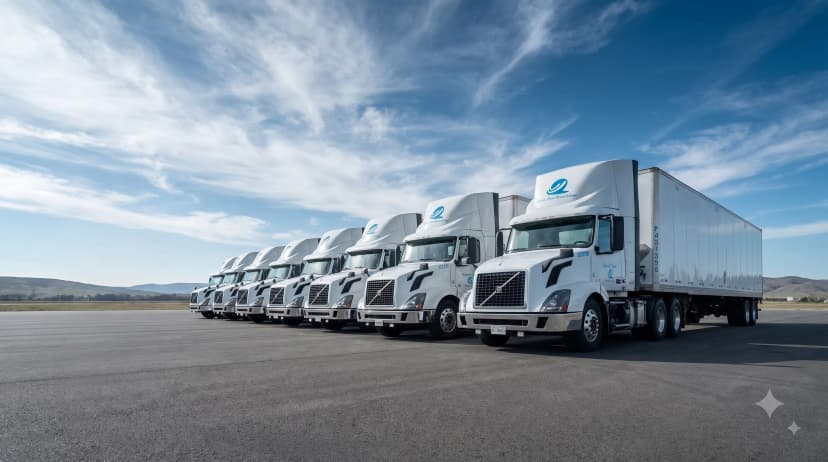
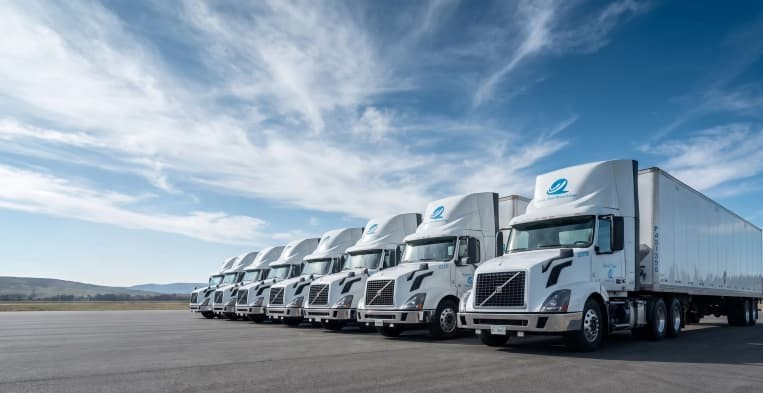
@ SEO cleanup, region wording, image swaps, and UI fixes
- Fix doubled title-tag brand suffix on /services, /service-areas, /contact
  (metadata was declared in both layout.js and page.js)
- Standardize region wording to "Ontario" site-wide
- Update flatbed/step-deck sizes to 36/40/48/53ft across service pages
- Swap flatbed-moffett-transport imagery to Moffett set; new services & healthcare heroes
- Full-bleed hover on single-column service cards (home + editorial pages)
- Append "Moffett & Flatbed Services Available" to footer serving line; add Blog footer link

@

diff --git a/src/components/serviceEditorialData.js b/src/components/serviceEditorialData.js
@@ -144,6 +144,7 @@ const ALT = {
   'specialty-kenworth': 'A Point Zero Road Lines specialty flatbed tractor',
   // New page-wise photography
   'fleet-lineup': 'Point Zero Road Lines fleet lined up under a clear blue sky',
+  'services-hero': 'Point Zero Road Lines fleet lined up under a clear blue sky',
   'about-fleet-lineup': 'Point Zero Road Lines fleet lined up under a clear blue sky',
   'about-fleet-yard': 'Point Zero Road Lines fleet parked at the terminal yard',
   'home-fleet-manager': 'Point Zero Road Lines fleet manager inspecting transport trucks',
@@ -152,6 +153,8 @@ const ALT = {
   'moffett-yard-front': 'Point Zero Road Lines Moffett flatbed truck ready for delivery',
   'moffett-unloading-forklift': 'Truck-mounted forklift unloading palletized freight on site',
   'moffett-construction-unload': 'Point Zero Road Lines Moffett delivery at construction site',
+  'moffett-logistics-yard': 'Point Zero Road Lines Moffett-equipped truck in the logistics yard',
+  'truck-side': 'Point Zero Road Lines truck side profile on the road',
   'dedicated-fleet-rows': 'Point Zero Road Lines dedicated fleet lined up in parallel rows',
   'dedicated-fleet-terminal': 'Point Zero Road Lines dedicated carrier fleet at terminal',
   'dedicated-fleet-highway': 'Point Zero Road Lines truck traveling on open highway',
@@ -197,12 +200,15 @@ const POS = {
   'urban-flatbed': '40% 56%',
   // New page-wise focal points
   'fleet-lineup': '50% 55%',
+  'services-hero': '50% 55%',
   'about-fleet-lineup': '50% 55%',
   'about-fleet-yard': '50% 50%',
   'home-fleet-manager': '50% 52%',
   'home-driver-cabin': '50% 40%',
   'moffett-yard-rear': '50% 55%',
   'moffett-yard-front': '50% 52%',
+  'moffett-logistics-yard': '50% 55%',
+  'truck-side': '50% 50%',
   'moffett-unloading-forklift': '50% 50%',
   'moffett-construction-unload': '50% 50%',
   'dedicated-fleet-rows': '50% 54%',
@@ -242,14 +248,14 @@ export const IMAGE_SETS = {
     cta: img('about-fleet-yard'),
   },
   services: {
-    hero: img('fleet-lineup'),
+    hero: img('services-hero'),
     gallery: [img('truck-loaded', 'main'), img('warehouse-crossdock-fleet2'), img('home-driver-cabin')],
     cta: img('about-fleet-yard'),
   },
   'flatbed-moffett-transport': {
-    hero: img('warehouse-crossdock-fleet2'),
-    gallery: [img('construction-delivery-site', 'main'), img('warehouse-crossdock-docks'), img('home-driver-cabin')],
-    cta: img('flatbed-construction-haul'),
+    hero: img('moffett-logistics-yard'),
+    gallery: [img('construction-site-unload', 'main'), img('flatbed-road'), img('truck-side')],
+    cta: img('moffett-logistics-yard'),
   },
   'moffett-delivery': {
     hero: img('moffett-construction-unload'),
@@ -302,7 +308,7 @@ export const IMAGE_SETS = {
     cta: img('construction-blue-hero'),
   },
   'healthcare-linen-logistics': {
-    hero: img('dedicated-fleet-blue'),
+    hero: img('moffett-yard-rear'),
     gallery: [img('dedicated-fleet-terminal', 'main'), img('warehouse-crossdock-staging'), img('home-fleet-manager')],
     cta: img('dedicated-fleet-rows'),
   },
@@ -374,7 +380,7 @@ export function getImageSet(key) {
 
 export const overviewCapabilities = [
   { icon: 'Forklift', label: 'Moffett', value: 'Truck-mounted forklifts that travel with the load and unload without site equipment.' },
-  { icon: 'Truck', label: 'Flatbed', value: '48ft, 53ft, step-decks and drop-decks. Ready for oversized and overweight loads.' },
+  { icon: 'Truck', label: 'Flatbed', value: '36ft, 40ft, 48ft, 53ft, step-decks and drop-decks. Ready for oversized and overweight loads.' },
   { icon: 'Warehouse', label: 'Cross-dock', value: 'Inbound to outbound transfers that keep freight moving instead of sitting.' },
   { icon: 'Navigation', label: 'Tracking', value: 'Live truck location, so you know where the load is without calling to ask.' },
 ];

diff --git a/src/app/services/flatbed-transportation/page.js b/src/app/services/flatbed-transportation/page.js
@@ -2,11 +2,11 @@ import ServiceEditorialPage from '../../../components/ServiceEditorialPage';
 
 export const metadata = {
   title: 'Flatbed Transportation Services in Ontario | Point Zero Road Lines',
-  description: '48ft & 53ft flatbed and step-deck transportation across Ontario. Tarping, Moffett offloading, and dedicated open-deck freight capacity.',
+  description: '36ft, 40ft, 48ft & 53ft flatbed and step-deck transportation across Ontario. Tarping, Moffett offloading, and dedicated open-deck freight capacity.',
 };
 
 const capabilities = [
-  { icon: 'Truck', title: 'Open-Deck & Step-Deck Fleet', desc: '48ft and 53ft flatbeds, step-decks, and roll-tite trailers for oversized, high-cube, and heavy industrial freight.' },
+  { icon: 'Truck', title: 'Open-Deck & Step-Deck Fleet', desc: '36ft, 40ft, 48ft and 53ft flatbeds, step-decks, and roll-tite trailers for oversized, high-cube, and heavy industrial freight.' },
   { icon: 'Forklift', title: 'Moffett-Equipped Capability', desc: 'Flatbeds carrying truck-mounted forklifts so your freight unloads immediately upon job-site arrival.' },
   { icon: 'Shield', title: 'Certified Load Securement', desc: 'All shipments secured with heavy-duty chains, ratchet straps, corner protectors, and 8ft drop tarps.' },
   { icon: 'MapPin', title: 'Site-Ready Deliveries', desc: 'Direct delivery into active construction zones, industrial yards, and restricted access facilities.' },
@@ -32,7 +32,7 @@ export default function FlatbedTransportationPage() {
       heroAlt="Point Zero Road Lines flatbed trailer on highway"
       stats={[
         { value: '2006', label: 'Operating Since' },
-        { value: '48-53ft', label: 'Deck Lengths' },
+        { value: '36-53ft', label: 'Deck Lengths' },
         { value: '24/7', label: 'Live Dispatch' },
         { value: 'All-Terrain', label: 'Moffett Offload' },
       ]}

diff --git a/src/app/fleet-and-equipment/page.js b/src/app/fleet-and-equipment/page.js
@@ -7,7 +7,7 @@ export const metadata = {
 
 const fleetSpecs = [
   { icon: 'Forklift', title: 'Truck-Mounted Moffett Forklifts', desc: 'All-wheel drive rough-terrain capability. Mounts to trailer rear in under 2 minutes to unload heavy materials independently.' },
-  { icon: 'Truck', title: '48ft & 53ft Flatbeds and Step-Decks', desc: 'Open-deck capacity with step-deck options for tall machinery, construction framing, structural steel, and oversized loads.' },
+  { icon: 'Truck', title: '36ft, 40ft, 48ft & 53ft Flatbeds and Step-Decks', desc: 'Open-deck capacity with step-deck options for tall machinery, construction framing, structural steel, and oversized loads.' },
   { icon: 'Layers', title: 'Roll-Tite & Curtain-Side Trailers', desc: 'Retractable tarp systems offering quick side-loading with 100% weather-tight protection for sensitive cargo.' },
   { icon: 'Package', title: '53ft Air-Ride Dry Vans', desc: 'Clean, high-cube enclosed trailers equipped with e-track systems for secure CPG, industrial freight, and linen carts.' },
 ];
@@ -35,7 +35,7 @@ export default function FleetAndEquipmentPage() {
       stats={[
         { value: '100%', label: 'Company-Owned Fleet' },
         { value: 'Moffett', label: 'All-Terrain Forklifts' },
-        { value: '48-53ft', label: 'Flatbed & Step-Deck' },
+        { value: '36-53ft', label: 'Flatbed & Step-Deck' },
         { value: '24/7', label: 'Fleet Dispatch' },
       ]}
       primarySection={{

diff --git a/src/app/services/flatbed-moffett-transport/page.js b/src/app/services/flatbed-moffett-transport/page.js
@@ -29,14 +29,14 @@ export default function FlatbedMoffettTransportPage() {
       badgeAlt="EST. 2006 · MISSISSAUGA HQ"
       titleLine1="TRUCK-MOUNTED MOFFETT DELIVERY."
       titleAccent="NO DOCK. NO FORKLIFT. NO PROBLEM."
-      description="Point Zero Road Lines pairs 48ft and 53ft flatbeds, step decks, and roll-tite trailers with truck-mounted Moffett forklifts that ride on the rear and unload directly at the job site, yard, or residential address. No waiting for on-site equipment, no offloading delays."
+      description="Point Zero Road Lines pairs 36ft, 40ft, 48ft and 53ft flatbeds, step decks, and roll-tite trailers with truck-mounted Moffett forklifts that ride on the rear and unload directly at the job site, yard, or residential address. No waiting for on-site equipment, no offloading delays."
       heroImage="/images/warehouse-crossdock-fleet2.webp"
       heroAlt="Point Zero Road Lines Moffett flatbed truck ready for delivery"
       stats={[
         { value: '100%', label: 'Self-Unloading Fleet' },
         { value: '2006', label: 'Operating Since' },
         { value: '24/7', label: 'Live Dispatch' },
-        { value: '48-53ft', label: 'Flatbed & Step-Deck' },
+        { value: '36-53ft', label: 'Flatbed & Step-Deck' },
       ]}
       primarySection={{
         num: '01',

diff --git a/src/app/service-areas/layout.js b/src/app/service-areas/layout.js
@@ -1,12 +1,12 @@
 export const metadata = {
   // SEO title tag from the client's approved copy package. `absolute` bypasses
   // the root "%s | Point Zero Road Lines" template so it renders verbatim.
-  title: { absolute: "Trucking Service Areas: GTA & Ontario | Point Zero Road Lines" },
-  description: "Point Zero Road Lines serves Mississauga, Brampton, Bolton, Toronto and the wider GTA and Ontario, with cross-border trucking into the U.S.",
+  title: { absolute: "Freight & Trucking Service Areas | GTA & Ontario" },
+  description: "Point Zero Road Lines serves Mississauga, Brampton, Toronto, Vaughan, Caledon, Burlington & across Ontario, with cross-border trucking to the U.S.",
   alternates: { canonical: "/service-areas" },
   openGraph: {
-    title: "Service Areas",
-    description: "Point Zero Road Lines serves Mississauga, Brampton, Bolton, Toronto and the wider GTA and Ontario, with cross-border trucking into the U.S.",
+    title: "Freight & Trucking Service Areas | GTA & Ontario",
+    description: "Point Zero Road Lines serves Mississauga, Brampton, Toronto, Vaughan, Caledon, Burlington & across Ontario, with cross-border trucking to the U.S.",
     url: "/service-areas",
   },
 };

diff --git a/src/app/contact/layout.js b/src/app/contact/layout.js
@@ -1,10 +1,10 @@
 export const metadata = {
-  title: { absolute: "Contact Point Zero Road Lines — 24/7 Dispatch & Freight Quotes" },
-  description: "Contact Point Zero Road Lines in Mississauga, ON. Call (905) 291-0325 or message our 24/7 dispatch team for dedicated fleet, flatbed & Moffett delivery, and warehousing inquiries.",
+  title: { absolute: "Get a Freight Quote — GTA & Ontario | Point Zero" },
+  description: "Request a free freight quote from Point Zero Road Lines. Dedicated fleet, flatbed & Moffett delivery, and more. Quotes typically returned within 24 hours.",
   alternates: { canonical: "/contact" },
   openGraph: {
-    title: "Contact Point Zero Road Lines — 24/7 Dispatch & Freight Quotes",
-    description: "Contact Point Zero Road Lines in Mississauga, ON. Call (905) 291-0325 or message our 24/7 dispatch team for dedicated fleet, flatbed & Moffett delivery, and warehousing inquiries.",
+    title: "Get a Freight Quote — GTA & Ontario | Point Zero",
+    description: "Request a free freight quote from Point Zero Road Lines. Dedicated fleet, flatbed & Moffett delivery, and more. Quotes typically returned within 24 hours.",
     url: "/contact",
   },
 };

diff --git a/src/app/services/page.js b/src/app/services/page.js
@@ -6,11 +6,8 @@ import {
   overviewGallery,
 } from '../../components/serviceEditorialData';
 
-export const metadata = {
-  title: 'Trucking, Moffett Delivery & Logistics | Point Zero Road Lines',
-  description: 'Dedicated fleet, flatbed & Moffett transport, warehousing, expedited freight, and last mile delivery across the GTA & Ontario.',
-};
-
+// Metadata lives in ./layout.js (absolute title + canonical + OpenGraph) to
+// avoid a doubled "| Point Zero Road Lines" from the root title template.
 export default function ServicesPage() {
   return (
     <ServiceEditorialPage
@@ -36,7 +33,7 @@ export default function ServicesPage() {
         num: '02',
         label: 'Capabilities',
         title: 'Fleet & Equipment at a glance',
-        desc: 'Modern tractors, 48ft/53ft flatbeds, roll-tite trailers, dry vans, and truck-mounted Moffett units maintained to the highest safety standards.',
+        desc: 'Modern tractors, 36ft, 40ft, 48ft and 53ft flatbeds, roll-tite trailers, dry vans, and truck-mounted Moffett units maintained to the highest safety standards.',
         items: overviewCapabilities.map((c) => ({
           icon: c.icon,
           title: c.label,

diff --git a/src/components/Footer.jsx b/src/components/Footer.jsx
@@ -73,6 +73,7 @@ export default function Footer() {
                 <li><Link href="/service-areas">Service Areas</Link></li>
                 <li><Link href="/safety-compliance">Safety &amp; Compliance</Link></li>
                 <li><Link href="/faq">FAQ</Link></li>
+                <li><Link href="/blog">Blog</Link></li>
                 <li><Link href="/contact">Contact</Link></li>
               </ul>
             </div>
@@ -88,7 +89,7 @@ export default function Footer() {
                 24/7 Dispatch • Weekend Pick-up &amp; Delivery
               </span>
               <span style={{ fontSize: '0.75rem', opacity: 0.65, marginTop: '0.5rem', lineHeight: '1.4' }}>
-                Serving Mississauga, Brampton, Toronto, Vaughan, Caledon, Bolton, Burlington, Richmond Hill, Markham &amp; Ontario
+                Serving Mississauga, Brampton, Toronto, Vaughan, Caledon, Bolton, Burlington, Richmond Hill, Markham &amp; Ontario | Moffett &amp; Flatbed Services Available
               </span>
             </div>
           </div>

diff --git a/src/components/ServiceEditorial.css b/src/components/ServiceEditorial.css
@@ -522,8 +522,24 @@
   .sv-ed-grid-4,
   .sv-ed-caps-grid,
   .sv-ed-steps { grid-template-columns: 1fr; }
+  .sv-ed-grid,
+  .sv-ed-grid-4 { border-left: none; border-top: none; }
+  .sv-ed-grid > *:first-child .sv-ed-card,
+  .sv-ed-grid > *:first-child .sv-ed-card-static,
+  .sv-ed-grid-4 > *:first-child .sv-ed-card,
+  .sv-ed-grid-4 > *:first-child .sv-ed-card-static {
+    border-top: 1px solid rgba(13, 27, 42, 0.12);
+  }
   .sv-ed-grid > * .sv-ed-card,
-  .sv-ed-grid > * .sv-ed-card-static { border-right: none !important; }
+  .sv-ed-grid > * .sv-ed-card-static {
+    border-right: none !important;
+    border-left: none;
+    /* Full-bleed hover: background spans edge-to-edge, text stays aligned */
+    margin-left: calc(-1 * var(--page-gutter));
+    margin-right: calc(-1 * var(--page-gutter));
+    padding-left: calc(2rem + var(--page-gutter));
+    padding-right: calc(2rem + var(--page-gutter));
+  }
   .sv-ed-card-link { opacity: 1; transform: none; }
   .sv-ed-step,
   .sv-ed-step:nth-child(odd) {

diff --git a/src/app/service-areas/page.js b/src/app/service-areas/page.js
@@ -1,10 +1,7 @@
 import ServiceEditorialPage from '../../components/ServiceEditorialPage';
 
-export const metadata = {
-  title: 'Freight & Trucking Service Areas | GTA & Ontario',
-  description: 'Point Zero Road Lines serves Mississauga, Brampton, Toronto, Vaughan, Caledon, Burlington & across Ontario, with cross-border trucking to the U.S.',
-};
-
+// Metadata lives in ./layout.js (absolute title + canonical + OpenGraph) to
+// avoid a doubled "| Point Zero Road Lines" from the root title template.
 const serviceRegions = [
   { icon: 'MapPin', title: 'Greater Toronto Area (GTA)', desc: 'Mississauga (HQ), Brampton, Bolton, Toronto, Vaughan, Markham, Oakville, Burlington, Milton, Caledon, and Richmond Hill. Daily Moffett delivery, dedicated fleet loops, and cross-docking.' },
   { icon: 'Route', title: 'Golden Horseshoe & SW Ontario', desc: 'Hamilton, Kitchener-Waterloo, Cambridge, Guelph, Brantford, London, and Windsor. Manufacturing JIT supply, automotive corridors, and building supplies.' },

diff --git a/src/components/Services.css b/src/components/Services.css
@@ -151,7 +151,10 @@
   .service-card {
     border-right: none !important;
     border-bottom: 1px solid var(--border-color);
-    padding: 1.5rem 0;
+    /* Full-bleed hover: background spans edge-to-edge, text stays aligned */
+    margin-left: calc(-1 * var(--page-gutter));
+    margin-right: calc(-1 * var(--page-gutter));
+    padding: 1.5rem var(--page-gutter);
   }
 
   .services-grid > a:last-child .service-card,
@@ -168,7 +171,10 @@
   .service-card {
     border-right: none !important;
     border-bottom: 1px solid var(--border-color);
-    padding: 1.5rem 0;
+    /* Full-bleed hover: background spans edge-to-edge, text stays aligned */
+    margin-left: calc(-1 * var(--page-gutter));
+    margin-right: calc(-1 * var(--page-gutter));
+    padding: 1.5rem var(--page-gutter);
   }
 
   .services-grid > a:last-child .service-card,

diff --git a/src/app/contact/page.js b/src/app/contact/page.js
@@ -1,8 +1,5 @@
 import ContactUsPage from '../contact-us/page';
 
-export const metadata = {
-  title: 'Get a Freight Quote — GTA & Ontario | Point Zero',
-  description: 'Request a free freight quote from Point Zero Road Lines. Dedicated fleet, flatbed & Moffett delivery, and more. Quotes typically returned within 24 hours.',
-};
-
+// Metadata lives in ./layout.js (absolute title + canonical + OpenGraph) to
+// avoid a doubled "| Point Zero Road Lines" from the root title template.
 export default ContactUsPage;
